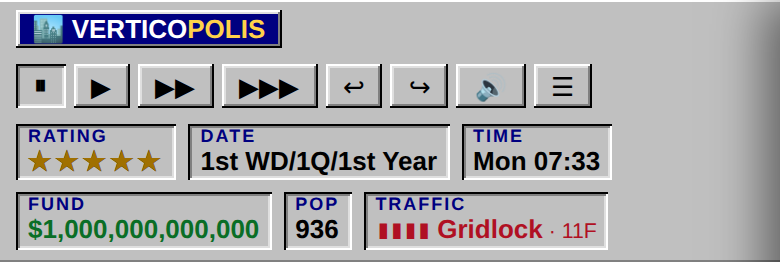
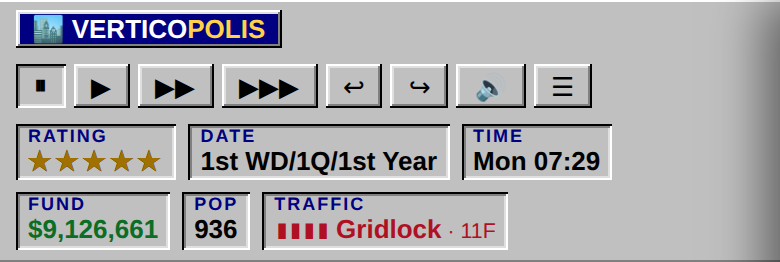
docs: re-capture traffic-chip shots at desktop width; document commit-SHA ref
The desktop before/after shots were captured at a 900px viewport, which cramped
the HUD — the brand wrapped to two lines and the right-hand speed buttons clipped
off. Re-capture at 1440px so the full bar lays out on one row with every button
visible, and swap the demo's 1e12 build budget for a realistic FUND (,126,661)
after building so the bar reads like real play. Also address review on #143:
docs/screenshots.md now documents a commit SHA as the most stable <ref> for
embedded images (survives branch deletion, no drift, no slash ambiguity).

Claude-Session: https://claude.ai/code/session_01DLuLbMqv6NHwFZqqyHTzjj

Changed region(s): [[0.0308, 0.7328, 0.8, 0.9771], [0.7385, 0.5802, 0.7692, 0.6412]]

diff --git a/docs/screenshots.md b/docs/screenshots.md
@@ -37,8 +37,10 @@ they render inline:
 ![after](https://raw.githubusercontent.com/<owner>/<repo>/<ref>/docs/screenshots/features/your-shot-after.png)
 ```
 
-- `<ref>` is your PR's **branch name** (renders live during review) or `main`
-  (resolves once the PR merges).
+- `<ref>` can be a **commit SHA** (most stable — it survives branch deletion,
+  never drifts if the shot is later replaced, and avoids ambiguity with branch
+  names containing `/`; preferred for the archival PR record), your PR's **branch
+  name** (renders live during review), or `main` (resolves once the PR merges).
 - For a PR from a **fork**, `<owner>/<repo>` is the fork's owner/repo, not the
   upstream — otherwise the image won't render during review.
 - An HTML `<img src="…" width="…">` tag works too, and lets you size the image
